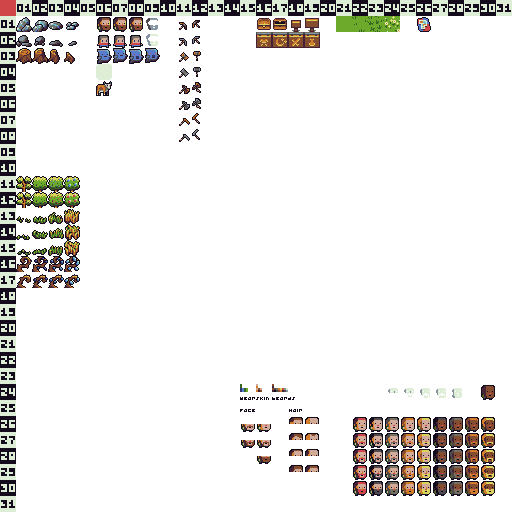
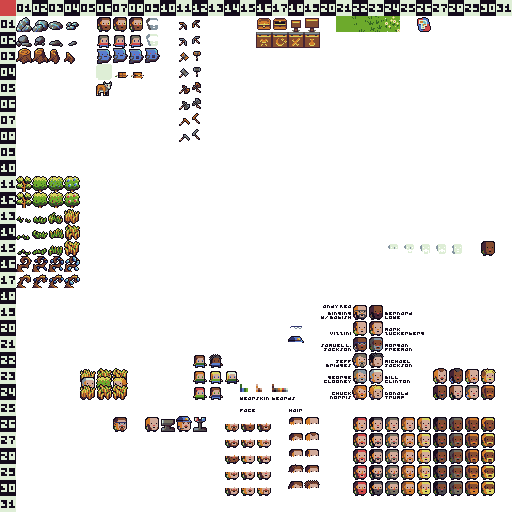
adds new visual variants, and a bit of code to generate random dorfs

diff --git a/alives/villager/villager.js b/alives/villager/villager.js
@@ -218,4 +218,26 @@ export default class Villager extends BaseHumanoid {
     if (!this.selected && this.highlight) { this.hideSprite("highlight") }
     if (this.highlight) { this.followSprite(this.highlight, -1) }
   }
+
+  getRandomDorfSprite(){
+    let list_wear           = ["blue_dark", "blue", "green_dark", "green"]
+    let list_skin           = ["fair", "light", "dark"]
+    let list_hair_color     = ["brown", "black", "ashen", "copper", "blonde", "redhead"]
+    let list_hair_color_old = ["silver", "white"]
+    let list_beard_style    = ["full", "managed", "handlebar", "pedostache", "clean"]
+    let list_hair_style     = ["bowl", "bald", "part", "mohawk", "zucc", "monk", "shag", "clean"]
+
+    let wear_pants  = this._getRandFrom(list_wear)
+    let wear_shirt  = this._getRandFrom(list_wear)
+    let skin  = this._getRandFrom(list_skin)
+    let hairs = this._getRandFrom(list_hair_color)
+    let beard = this._getRandFrom(list_beard_style)
+    let hair  = this._getRandFrom(list_hair_style)
+
+    return {wear_pants, wear_shirt, skin, hairs, beard, hair}
+  }
+
+  _getRandFrom(array) {
+    return array[Math.floor(Math.random() * array.length)]
+  }
 }

diff --git a/todo.md b/todo.md
@@ -1,7 +1,7 @@
 # MVP
 
 Art Needs:
-  [ ] Tents/Houses/Sleepies
+  [x] Tents/Houses/Sleepies
   [ ] Each piece of Dorf separate and white-scaled. So pure white, but make the shadows grey.
   [ ] Beard/hair, skin, pants, shirt each as separate full white sprites.
   [ ] Different sprite sheets for trees / 2x3 sprites
